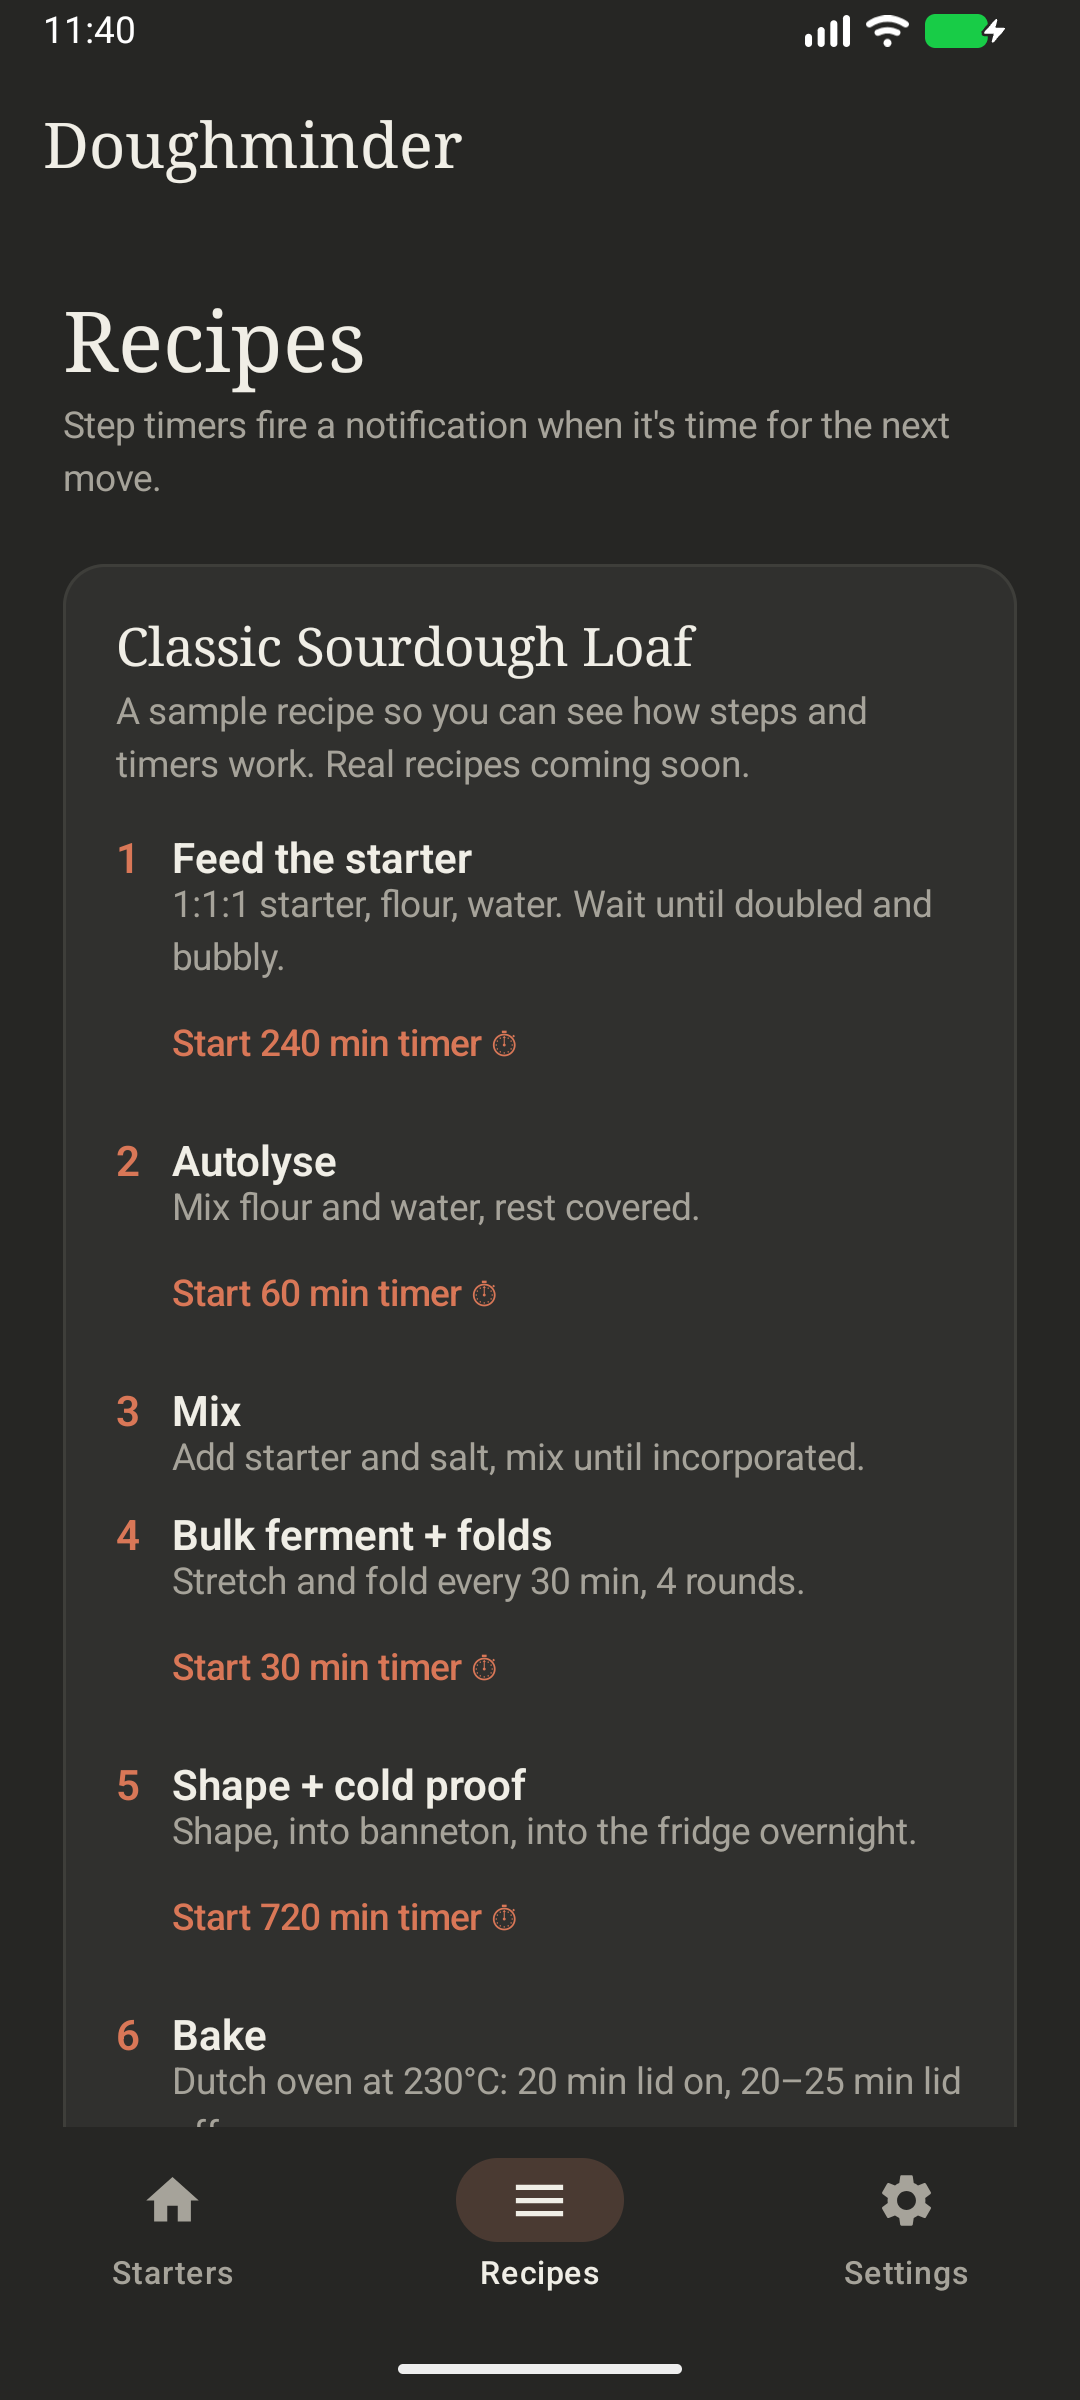
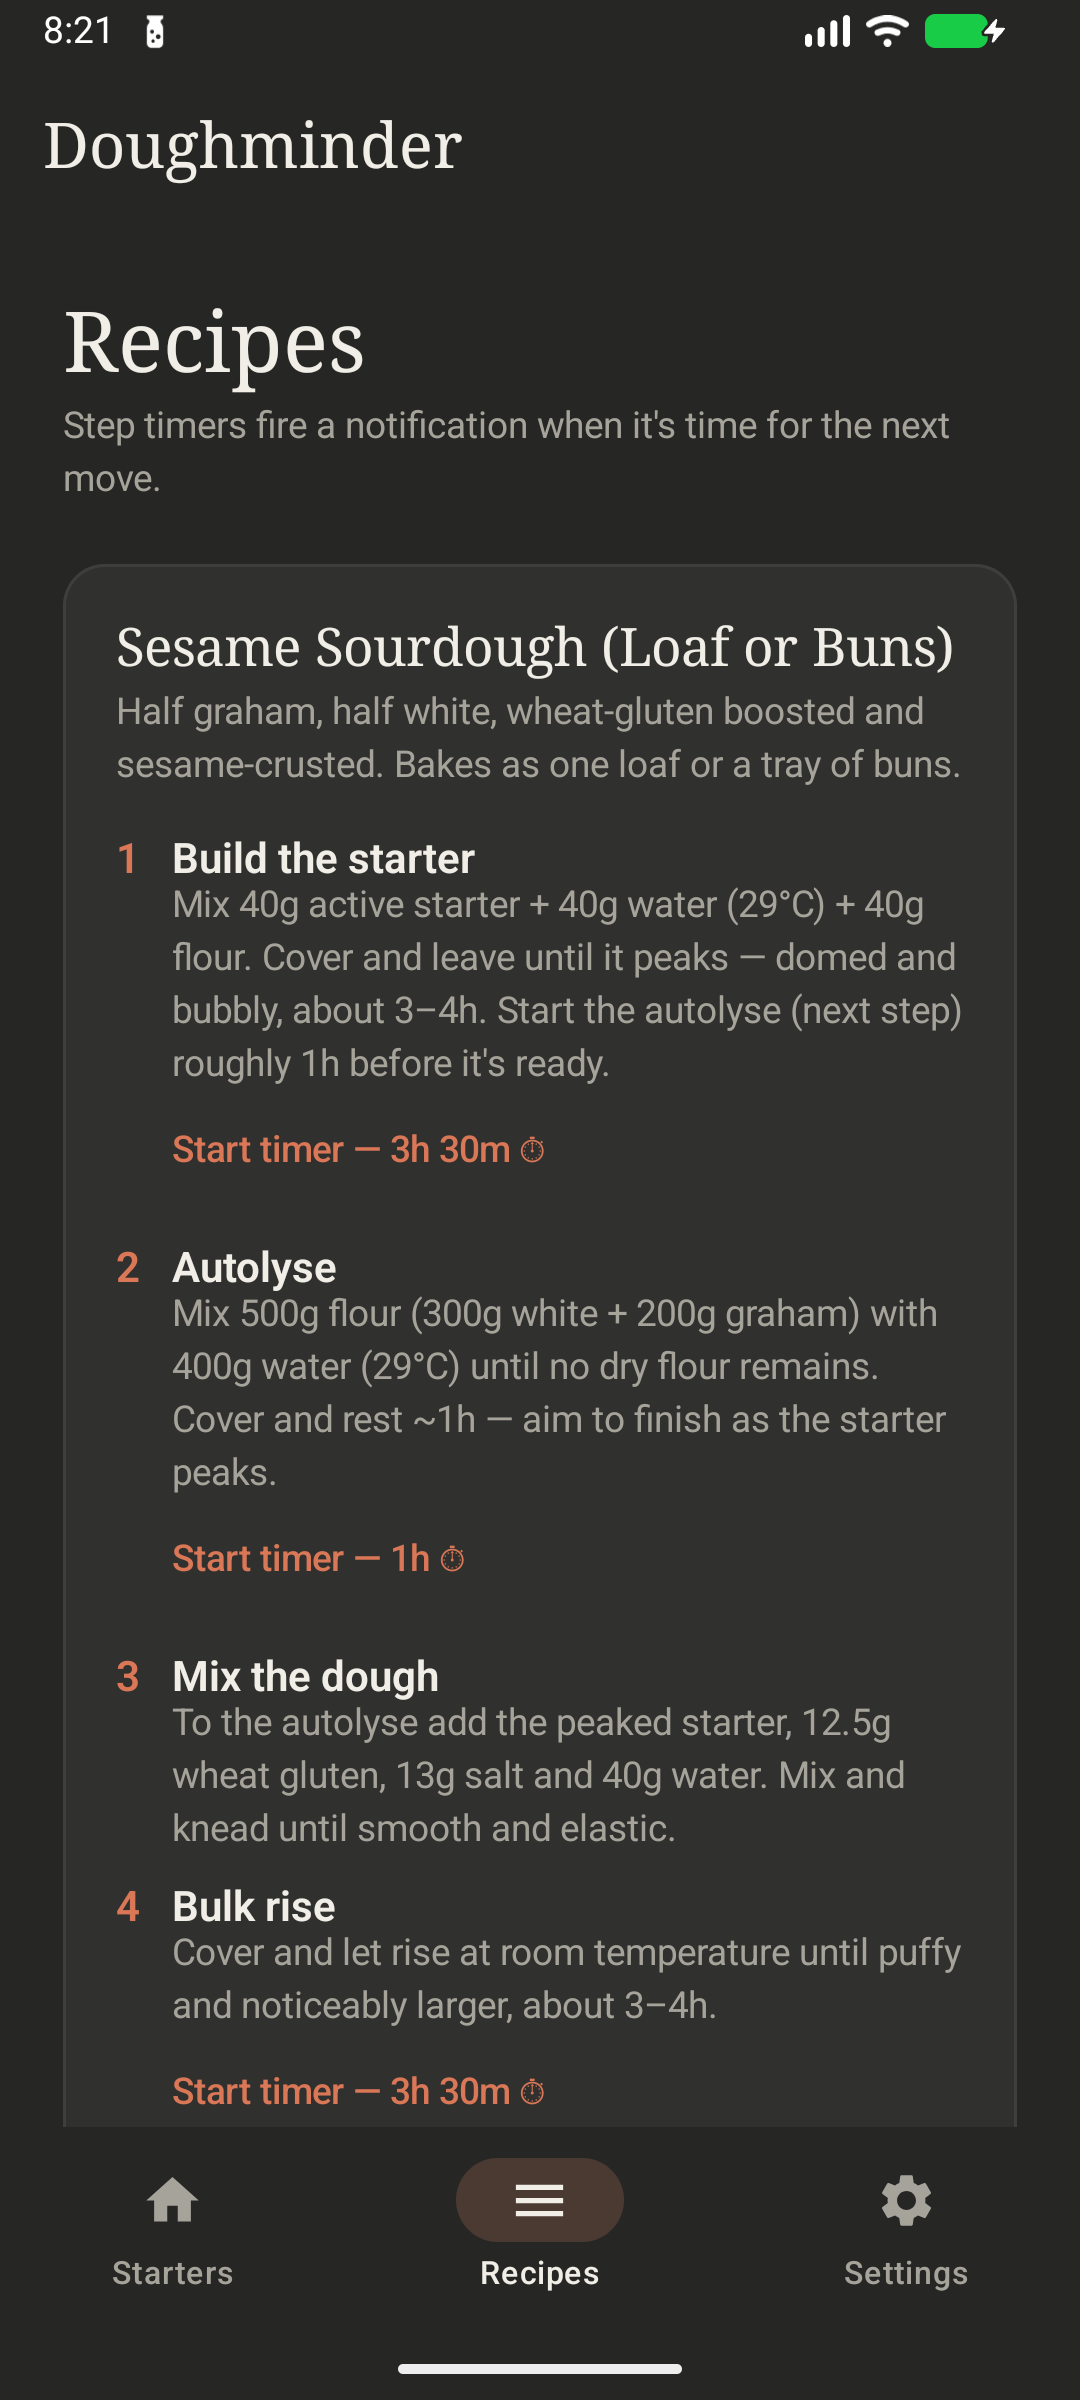
Reliable on-the-dot 24h reminders, real sesame recipe, release signing
- Daily reminder now uses setAlarmClock (like the snoozes) — the most
  reliable alarm Android offers, exempt from Doze/standby/battery killing.
  Verified live: fired at the set minute on the dot with the app
  backgrounded and screen off, then re-armed exactly 24h later.
- Daily nag always fires at the set time (a 'Yes, I fed her' tap is one
  press away) instead of being suppressed.
- Replace sample recipe with the real Sesame Sourdough (Loaf or Buns);
  nicer timer labels (3h 30m, 1h, …).
- Release signing via gitignored keystore.properties; assembleRelease now
  produces a signed, installable APK. R8 left off so serialization/
  reflection can't be stripped.

diff --git a/app/src/main/java/com/edt/doughminder/data/Recipes.kt b/app/src/main/java/com/edt/doughminder/data/Recipes.kt
@@ -1,22 +1,61 @@
 package com.edt.doughminder.data
 
 /**
- * Built-in recipes. Placeholder content for now — drop real recipes in here
- * (same shape) and the Recipes screen + step timers pick them up automatically.
+ * Built-in recipes. Drop more in here (same shape) and the Recipes screen +
+ * step timers pick them up automatically.
  */
 object Recipes {
     val all = listOf(
         Recipe(
-            id = "classic-loaf",
-            title = "Classic Sourdough Loaf",
-            summary = "A sample recipe so you can see how steps and timers work. Real recipes coming soon.",
+            id = "sesame-sourdough",
+            title = "Sesame Sourdough (Loaf or Buns)",
+            summary = "Half graham, half white, wheat-gluten boosted and sesame-crusted. " +
+                "Bakes as one loaf or a tray of buns.",
             steps = listOf(
-                RecipeStep("Feed the starter", "1:1:1 starter, flour, water. Wait until doubled and bubbly.", timerMinutes = 240),
-                RecipeStep("Autolyse", "Mix flour and water, rest covered.", timerMinutes = 60),
-                RecipeStep("Mix", "Add starter and salt, mix until incorporated."),
-                RecipeStep("Bulk ferment + folds", "Stretch and fold every 30 min, 4 rounds.", timerMinutes = 30),
-                RecipeStep("Shape + cold proof", "Shape, into banneton, into the fridge overnight.", timerMinutes = 720),
-                RecipeStep("Bake", "Dutch oven at 230°C: 20 min lid on, 20–25 min lid off.", timerMinutes = 20),
+                RecipeStep(
+                    "Build the starter",
+                    "Mix 40g active starter + 40g water (29°C) + 40g flour. Cover and leave " +
+                        "until it peaks — domed and bubbly, about 3–4h. Start the autolyse " +
+                        "(next step) roughly 1h before it's ready.",
+                    timerMinutes = 210,
+                ),
+                RecipeStep(
+                    "Autolyse",
+                    "Mix 500g flour (300g white + 200g graham) with 400g water (29°C) until no " +
+                        "dry flour remains. Cover and rest ~1h — aim to finish as the starter peaks.",
+                    timerMinutes = 60,
+                ),
+                RecipeStep(
+                    "Mix the dough",
+                    "To the autolyse add the peaked starter, 12.5g wheat gluten, 13g salt and " +
+                        "40g water. Mix and knead until smooth and elastic.",
+                ),
+                RecipeStep(
+                    "Bulk rise",
+                    "Cover and let rise at room temperature until puffy and noticeably larger, " +
+                        "about 3–4h.",
+                    timerMinutes = 210,
+                ),
+                RecipeStep(
+                    "Stretch & folds",
+                    "During the first ~80 min of the rise, do a set of stretch-and-folds every " +
+                        "20 min — 3 to 4 sets total. Restart this timer after each set.",
+                    timerMinutes = 20,
+                ),
+                RecipeStep(
+                    "Shape, seed & cold proof",
+                    "Shape into one loaf or divide into buns. Stir 50g sesame seeds with 15g " +
+                        "water into a slurry and coat the tops. Refrigerate 8–12h.",
+                    timerMinutes = 600,
+                ),
+                RecipeStep(
+                    "Bake at 250°C",
+                    "Buns: 8 min top+bottom heat with boiling water poured into the bottom tray " +
+                        "for steam, then 8–10 min fan/convection until golden. " +
+                        "Loaf: bake in a preheated Dutch oven — lid on to steam, then lid off to " +
+                        "brown (≈20 min + 20 min; check your oven). Cool before cutting.",
+                    timerMinutes = 8,
+                ),
             ),
         ),
     )

diff --git a/app/src/main/java/com/edt/doughminder/notify/ReminderScheduler.kt b/app/src/main/java/com/edt/doughminder/notify/ReminderScheduler.kt
@@ -4,7 +4,6 @@ import android.app.AlarmManager
 import android.app.PendingIntent
 import android.content.Context
 import android.content.Intent
-import android.os.Build
 import com.edt.doughminder.MainActivity
 import com.edt.doughminder.data.Starter
 import com.edt.doughminder.data.Storage
@@ -61,9 +60,15 @@ object ReminderScheduler {
         }
     }
 
-    /** (Re)arm the base reminder for a starter. */
+    /**
+     * (Re)arm the base reminder for a starter. Uses setAlarmClock — the single
+     * most reliable alarm Android offers: exact, exempt from Doze AND app-standby
+     * AND (on most OEMs) battery-optimization killing, because breaking it would
+     * break the system clock. This is what makes the daily reminder fire ON THE
+     * DOT even if the app has been closed for days.
+     */
     fun scheduleNext(context: Context, starter: Starter) {
-        setExact(context, nextTrigger(starter), reminderIntent(context, starter.id, 0, 0))
+        setClock(context, nextTrigger(starter), reminderIntent(context, starter.id, 0, 0))
     }
 
     fun cancel(context: Context, starterId: String) {
@@ -100,16 +105,7 @@ object ReminderScheduler {
         setClock(context, System.currentTimeMillis() + minutes * 60_000L, pi)
     }
 
-    /** Exact + wakes from Doze. Exact is guaranteed via USE_EXACT_ALARM on API 33+. */
-    private fun setExact(context: Context, at: Long, pi: PendingIntent) {
-        val m = am(context)
-        if (Build.VERSION.SDK_INT < 31 || m.canScheduleExactAlarms())
-            m.setExactAndAllowWhileIdle(AlarmManager.RTC_WAKEUP, at, pi)
-        else
-            m.setAndAllowWhileIdle(AlarmManager.RTC_WAKEUP, at, pi)
-    }
-
-    /** Highest-reliability, Doze-proof user alarm. */
+    /** Highest-reliability, Doze- and standby-proof user alarm. */
     private fun setClock(context: Context, at: Long, pi: PendingIntent) {
         am(context).setAlarmClock(AlarmManager.AlarmClockInfo(at, showIntent(context)), pi)
     }

diff --git a/app/src/main/java/com/edt/doughminder/notify/Receivers.kt b/app/src/main/java/com/edt/doughminder/notify/Receivers.kt
@@ -31,14 +31,15 @@ class ReminderReceiver : BroadcastReceiver() {
         val promised = intent.getIntExtra(Notify.EXTRA_HOURS, 0)
         val starter = repo.getStarter(id) ?: return@async
 
-        // depth 0 is the base cadence alarm — always re-arm the next one.
-        if (depth == 0) ReminderScheduler.scheduleNext(context, starter)
-
-        if (!starter.fedRecently()) {
-            Notify.postNag(
-                context, starter, depth, promised,
-                channel = if (depth == 0) Channels.REMINDERS else Channels.ARGUMENTS,
-            )
+        if (depth == 0) {
+            // Base daily reminder: re-arm tomorrow and ALWAYS fire on the dot at
+            // the time the user set — that's the whole job. A "Yes, I fed her"
+            // tap is one press away if they already did.
+            ReminderScheduler.scheduleNext(context, starter)
+            Notify.postNag(context, starter, 0, 0, channel = Channels.REMINDERS)
+        } else if (!starter.fedRecently()) {
+            // A promised snooze re-nag — skip it only if they've since fed.
+            Notify.postNag(context, starter, depth, promised, channel = Channels.ARGUMENTS)
         }
     }
 }

diff --git a/app/src/main/java/com/edt/doughminder/ui/RecipesScreen.kt b/app/src/main/java/com/edt/doughminder/ui/RecipesScreen.kt
@@ -32,6 +32,13 @@ import com.edt.doughminder.ui.theme.CreamDim
 import com.edt.doughminder.ui.theme.InkBorder
 import com.edt.doughminder.ui.theme.InkRaised
 
+private fun formatDuration(minutes: Int): String {
+    if (minutes < 60) return "$minutes min"
+    val h = minutes / 60
+    val m = minutes % 60
+    return if (m == 0) "${h}h" else "${h}h ${m}m"
+}
+
 @Composable
 fun RecipesScreen(onStartTimer: (stepTitle: String, minutes: Int) -> Unit) {
     LazyColumn(
@@ -82,7 +89,7 @@ private fun RecipeCard(recipe: Recipe, onStartTimer: (String, Int) -> Unit) {
                                 onClick = { onStartTimer(step.title, step.timerMinutes) },
                                 contentPadding = PaddingValues(0.dp),
                             ) {
-                                Text("Start ${step.timerMinutes} min timer ⏱", color = Coral)
+                                Text("Start timer — ${formatDuration(step.timerMinutes)} ⏱", color = Coral)
                             }
                         }
                     }

diff --git a/README.md b/README.md
@@ -26,31 +26,47 @@ The copy is calibrated to the real timescale: a few hours late is *fine*, the da
 
 ## Recipes
 
-Recipes with per-step timers that fire notifications when it's time for the next move. Add recipes in `app/src/main/java/com/edt/doughminder/data/Recipes.kt` (same `Recipe`/`RecipeStep` shape) and they appear automatically.
+Ships with **Sesame Sourdough (Loaf or Buns)** — a half-graham, wheat-gluten-boosted, sesame-crusted dough — broken into steps with per-step timers that fire a notification when it's time for the next move (build the starter, autolyse, mix, bulk rise, folds every 20 min, cold proof, bake). Add more in `app/src/main/java/com/edt/doughminder/data/Recipes.kt` (same `Recipe`/`RecipeStep` shape) and they appear automatically.
 
 <p align="center"><img src="screenshots/03_recipes.png" width="320" alt="Recipes screen"></p>
 
 ## Settings
 
-Default reminder time for new starters, the "Argue back" toggle, the snooze length, and a test nag button.
+Default reminder time for new starters, the "Argue back" toggle, a "Make reminders reliable" button, and a test nag button.
 
 <p align="center"><img src="screenshots/04_settings.png" width="320" alt="Settings screen"></p>
 
 ## Architecture notes
 
 - Kotlin + Jetpack Compose (Material 3), warm dark theme (ink `#262624`, cream text, coral `#D97757`, serif display type). No backend — everything is on-device.
-- `data/Sass.kt` is the argument engine: pre-written escalation chains with `{name}`/`{she}`/`{her}` pronoun templating, isolated behind small functions (`morningTitle`, `laterReply(depth)`, …) so a lightweight on-device LLM could replace the line-picking later without touching the notification plumbing.
-- **Reliable background firing** is the whole point, so alarms don't cut corners: the app holds `USE_EXACT_ALARM`, snoozes are scheduled with `setAlarmClock` (the highest-priority, Doze-proof alarm — it even shows the system alarm icon), and the daily reminder uses `setExactAndAllowWhileIdle`. Both are exact **wake-from-idle** alarms, so they fire on time even if the app has been closed for days. Everything is re-armed on boot, app update, and app start. Settings has a **"Make reminders reliable"** button that requests a battery-optimization exemption for OEMs that kill background apps.
+- `data/Sass.kt` is the argument engine: pre-written escalation chains with `{name}`/`{she}`/`{her}` pronoun templating and large fact/guilt pools, isolated behind small functions (`nagBody(depth, promised)`, `confirmBody(hours)`, `settledBody(hours)`, …) so a lightweight on-device LLM could replace the line-picking later without touching the notification plumbing.
+- **The daily reminder fires on the dot** at the time you set, every 24h, whether or not the app is open. Both the daily reminder and the snoozes use `setAlarmClock` — the single most reliable alarm Android offers: exact, and exempt from Doze, app-standby, *and* (on most OEMs) battery-optimization killing, because breaking it would break the system clock. Each alarm re-arms the next one, and everything is re-armed on boot, app update, and app start. The app also holds `USE_EXACT_ALARM`, and Settings has a **"Make reminders reliable"** button that requests a battery-optimization exemption for the most aggressive OEMs.
 - Starters and settings persist as JSON in DataStore.
 
 ## Build & install
 
+**Release (the real app — signed, installable, what you want on your phone):**
+
 ```bash
-./gradlew assembleDebug        # JDK path comes from gradle.properties
-adb install app/build/outputs/apk/debug/app-debug.apk
+./gradlew assembleRelease
+adb install app/build/outputs/apk/release/app-release.apk
 ```
 
-Or open the folder in Android Studio and hit Run.
+Release signing reads `keystore.properties` at the repo root (gitignored, along with the `.jks`). To recreate it on a fresh clone:
+
+```bash
+keytool -genkeypair -v -keystore app/doughminder-release.jks -alias doughminder \
+  -keyalg RSA -keysize 2048 -validity 10000 \
+  -storepass CHANGEME -keypass CHANGEME -dname "CN=Doughminder"
+cat > keystore.properties <<'EOF'
+storeFile=doughminder-release.jks
+storePassword=CHANGEME
+keyAlias=doughminder
+keyPassword=CHANGEME
+EOF
+```
+
+If `keystore.properties` is absent the release build is unsigned; debug builds (`./gradlew assembleDebug`) always work without it.
 
 Requires a `local.properties` with your SDK path (Android Studio creates it automatically):
 
@@ -58,4 +74,4 @@ Requires a `local.properties` with your SDK path (Android Studio creates it auto
 sdk.dir=/Users/you/Library/Android/sdk
 ```
 
-On first launch, allow notifications. For minute-exact reminders on Android 14+, grant "Alarms & reminders" in system settings — the app falls back to approximately-on-time otherwise.
+On first launch, allow notifications. The daily reminder uses `setAlarmClock`, so it fires exactly on time without any extra permission — but on aggressive OEMs (Xiaomi, Samsung, etc.) tap **Settings → "Make reminders reliable"** once to exempt the app from background killing.
